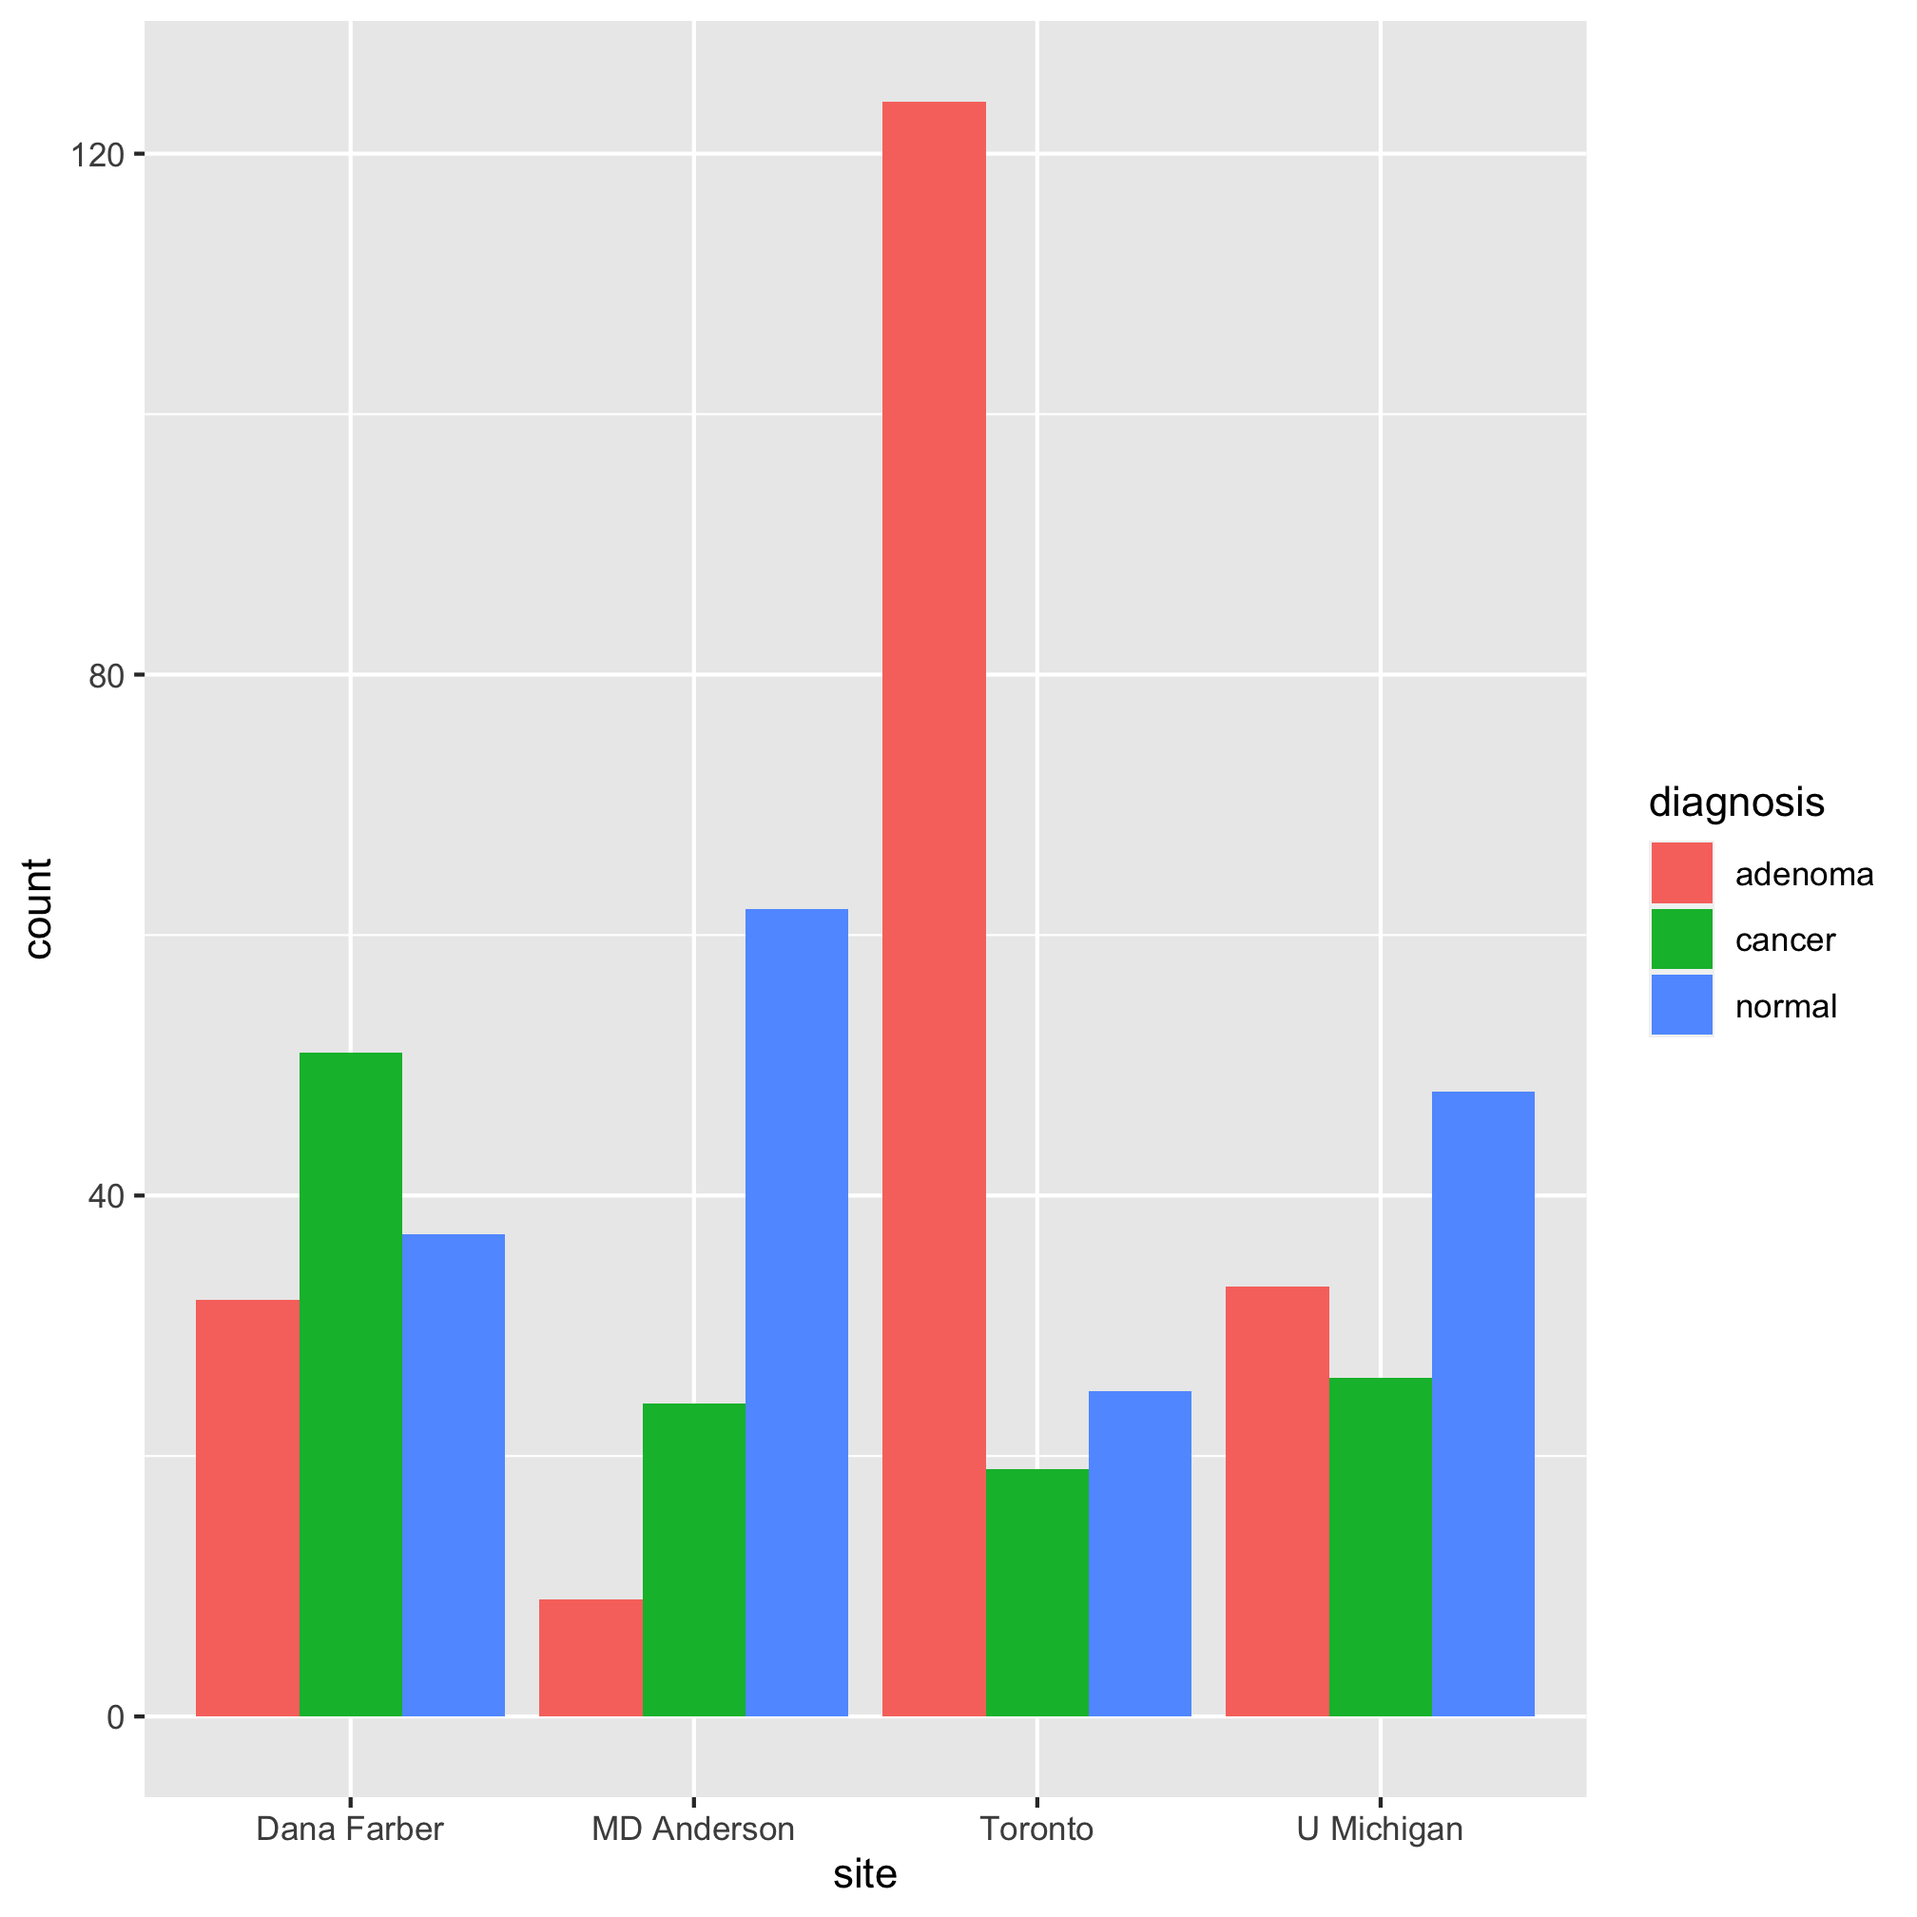
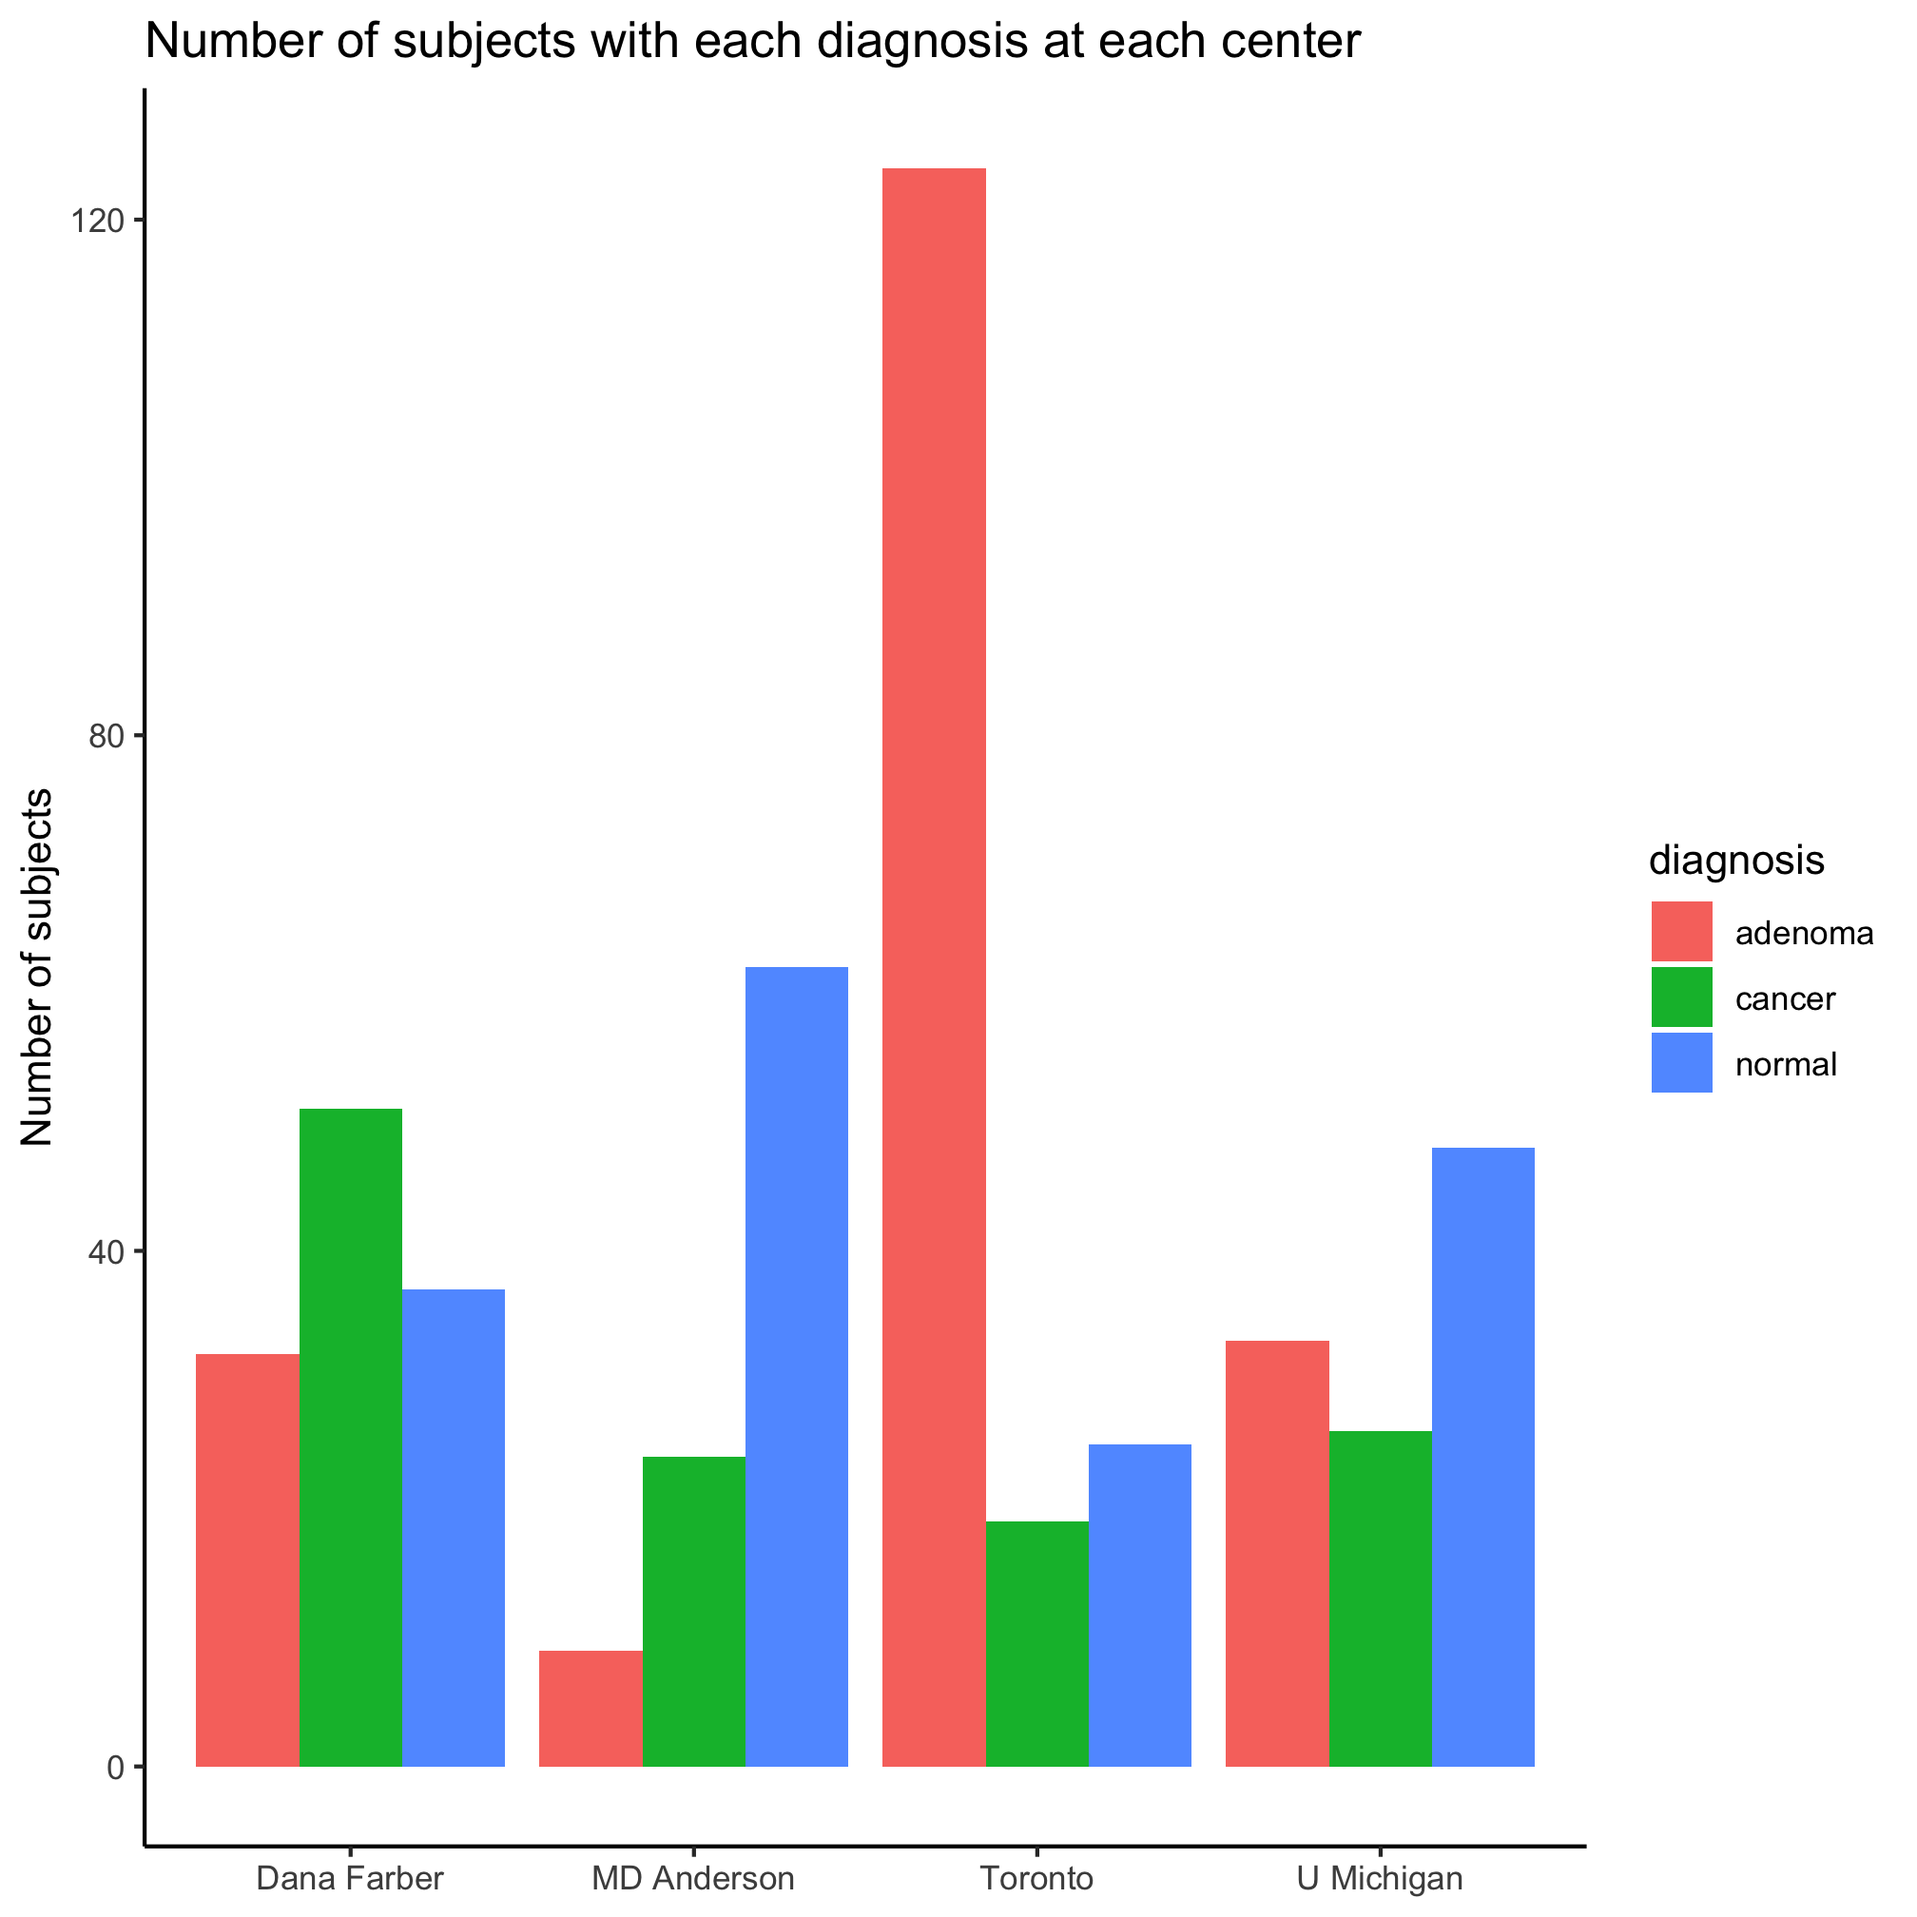
Remove group aesthetic because it doesn't do anything here

diff --git a/03_data_frames.md b/03_data_frames.md
@@ -749,24 +749,24 @@ With some of the same commands we used previously, we can get this to look a lit
 ```r
 ggplot(metadata, aes(x=site)) +
 	geom_bar() +
-		labs(title="Number of subjects at each center",
-			x=NULL,
-			y="Number of subjects") +
-		theme_classic()
+	labs(title="Number of subjects at each center",
+		x=NULL,
+		y="Number of subjects") +
+	theme_classic()
 ```
 
 <img src="assets/images/03_data_frames//unnamed-chunk-24-1.png" title="plot of chunk unnamed-chunk-24" alt="plot of chunk unnamed-chunk-24" width="504" />
 
-Nice. Let's say we want to know the number of male and female patients at each site. To do this we will add the `group` aesthetic. The bars will be grouped along the x-axis by site and then by sex. We'll also use the `color` aesthetic to color the bars by sex.
+Nice. Let's say we want to know the number of male and female patients at each site. To do this we will use the `color` aesthetic to color the bars by sex. The bars will be grouped along the x-axis by site and then by sex.
 
 
 ```r
-ggplot(metadata, aes(x=site, group=sex, color=sex)) +
+ggplot(metadata, aes(x=site, color=sex)) +
 	geom_bar() +
-		labs(title="Number of male and female subjects at each center",
-			x=NULL,
-			y="Number of subjects") +
-		theme_classic()
+	labs(title="Number of male and female subjects at each center",
+		x=NULL,
+		y="Number of subjects") +
+	theme_classic()
 ```
 
 <img src="assets/images/03_data_frames//unnamed-chunk-25-1.png" title="plot of chunk unnamed-chunk-25" alt="plot of chunk unnamed-chunk-25" width="504" />
@@ -775,12 +775,12 @@ Huh. That looks weird. It appears that the border of the bars was colored rather
 
 
 ```r
-ggplot(metadata, aes(x=site, group=sex, fill=sex)) +
+ggplot(metadata, aes(x=site, fill=sex)) +
 	geom_bar() +
-		labs(title="Number of male and female subjects at each center",
-			x=NULL,
-			y="Number of subjects") +
-		theme_classic()
+	labs(title="Number of male and female subjects at each center",
+		x=NULL,
+		y="Number of subjects") +
+	theme_classic()
 ```
 
 <img src="assets/images/03_data_frames//unnamed-chunk-26-1.png" title="plot of chunk unnamed-chunk-26" alt="plot of chunk unnamed-chunk-26" width="504" />
@@ -801,12 +801,12 @@ After playing around with `position_dodge` and `position_dodge2` and their vario
 
 
 ```r
-ggplot(metadata, aes(x=site, group=sex, fill=sex)) +
+ggplot(metadata, aes(x=site, fill=sex)) +
 	geom_bar(position = position_dodge()) +
-		labs(title="Number of male and female subjects at each center",
-			x=NULL,
-			y="Number of subjects") +
-		theme_classic()
+	labs(title="Number of male and female subjects at each center",
+		x=NULL,
+		y="Number of subjects") +
+	theme_classic()
 ```
 
 <img src="assets/images/03_data_frames//unnamed-chunk-27-1.png" title="plot of chunk unnamed-chunk-27" alt="plot of chunk unnamed-chunk-27" width="504" />
@@ -815,16 +815,16 @@ I'm not a fan of the default colors, having a legend title, or of the formatting
 
 
 ```r
-ggplot(metadata, aes(x=site, group=sex, fill=sex)) +
+ggplot(metadata, aes(x=site, fill=sex)) +
 	geom_bar(position = position_dodge()) +
-		scale_fill_manual(name=NULL,
-			values=c("lightgreen", "purple"),
-			breaks=c("female", "male"),
-			labels=c("Female", "Male")) +
-		labs(title="Number of male and female subjects at each center",
-			x=NULL,
-			y="Number of subjects") +
-		theme_classic()
+	scale_fill_manual(name=NULL,
+		values=c("lightgreen", "purple"),
+		breaks=c("female", "male"),
+		labels=c("Female", "Male")) +
+	labs(title="Number of male and female subjects at each center",
+		x=NULL,
+		y="Number of subjects") +
+	theme_classic()
 ```
 
 <img src="assets/images/03_data_frames//unnamed-chunk-28-1.png" title="plot of chunk unnamed-chunk-28" alt="plot of chunk unnamed-chunk-28" width="504" />
@@ -833,16 +833,12 @@ Nice, eh? Ok, so the colors aren't amazing. Now let's ask a different question, 
 
 
 ```r
-ggplot(metadata, aes(x=site, group=diagnosis, fill=diagnosis)) +
-	geom_bar(position = position_dodge())
+ggplot(metadata, aes(x=site, fill=diagnosis)) +
+	geom_bar(position = position_dodge()) +
 	labs(title="Number of subjects with each diagnosis at each center",
 		x=NULL,
 		y="Number of subjects") +
 	theme_classic()
-```
-
-```
-## NULL
 ```
 
 <img src="assets/images/03_data_frames//unnamed-chunk-29-1.png" title="plot of chunk unnamed-chunk-29" alt="plot of chunk unnamed-chunk-29" width="504" />
@@ -851,7 +847,7 @@ We can add our `scale_fill_manual` like we did earlier
 
 
 ```r
-ggplot(metadata, aes(x=site, group=diagnosis, fill=diagnosis)) +
+ggplot(metadata, aes(x=site, fill=diagnosis)) +
 	geom_bar(position = position_dodge()) +
 	scale_fill_manual(name=NULL,
 		values=c("blue", "red", "black"),
@@ -871,7 +867,7 @@ You may notice that the order of the diagnosis labels is correct in the legend, 
 ```r
 metadata <- mutate(metadata, diagnosis = factor(diagnosis, levels=c("normal", "adenoma", "cancer")))
 
-ggplot(metadata, aes(x=site, group=diagnosis, fill=diagnosis)) +
+ggplot(metadata, aes(x=site, fill=diagnosis)) +
 	geom_bar(position = position_dodge()) +
 	scale_fill_manual(name=NULL,
 		values=c("black", "blue", "red"),
@@ -898,16 +894,16 @@ Create a bar plot that shows the number of people with and without a family hist
 <div markdown="1" style="display:none;">
 
 ```r
-ggplot(metadata, aes(x=site, group=family_history_of_crc, fill=family_history_of_crc)) +
+ggplot(metadata, aes(x=site, fill=family_history_of_crc)) +
 	geom_bar(position = position_dodge()) +
-		scale_fill_manual(name="Family history of CRC?",
-			values=c("orange", "blue"),
-			breaks=c(TRUE, FALSE),
-			labels=c("Yes", "No")) +
-		labs(title="Number of subjects at each center with and without a history of CRC",
-			x=NULL,
-			y="Number of subjects") +
-		theme_classic()
+	scale_fill_manual(name="Family history of CRC?",
+		values=c("orange", "blue"),
+		breaks=c(TRUE, FALSE),
+		labels=c("Yes", "No")) +
+	labs(title="Number of subjects at each center with and without a history of CRC",
+		x=NULL,
+		y="Number of subjects") +
+	theme_classic()
 ```
 
 <img src="assets/images/03_data_frames//unnamed-chunk-32-1.png" title="plot of chunk unnamed-chunk-32" alt="plot of chunk unnamed-chunk-32" width="504" />
@@ -922,18 +918,18 @@ Above we plotted the site along the x-axis with diagnosis as the secondary varia
 <div markdown="1" style="display:none;">
 
 ```r
-ggplot(metadata, aes(x=diagnosis, group=site, fill=site)) +
+ggplot(metadata, aes(x=diagnosis, fill=site)) +
 	geom_bar(position = position_dodge()) +
-		scale_x_discrete(limits=c("normal", "adenoma", "cancer"),
-			labels=c("Normal", "Adenoma", "Cancer")) +
-		scale_fill_manual(name=NULL,
-			values=c("orange", "blue", "green", "black"),
-			breaks=c("Dana Farber", "MD Anderson", "Toronto", "U Michigan"),
-			labels=c("Dana Farber", "MD Anderson", "Toronto", "U Michigan")) +
-		labs(title="Number of subjects at each center with and without a history of CRC",
-			x=NULL,
-			y="Number of subjects") +
-		theme_classic()
+	scale_x_discrete(limits=c("normal", "adenoma", "cancer"),
+		labels=c("Normal", "Adenoma", "Cancer")) +
+	scale_fill_manual(name=NULL,
+		values=c("orange", "blue", "green", "black"),
+		breaks=c("Dana Farber", "MD Anderson", "Toronto", "U Michigan"),
+		labels=c("Dana Farber", "MD Anderson", "Toronto", "U Michigan")) +
+	labs(title="Number of subjects at each center with and without a history of CRC",
+		x=NULL,
+		y="Number of subjects") +
+	theme_classic()
 ```
 
 <img src="assets/images/03_data_frames//unnamed-chunk-33-1.png" title="plot of chunk unnamed-chunk-33" alt="plot of chunk unnamed-chunk-33" width="504" />
